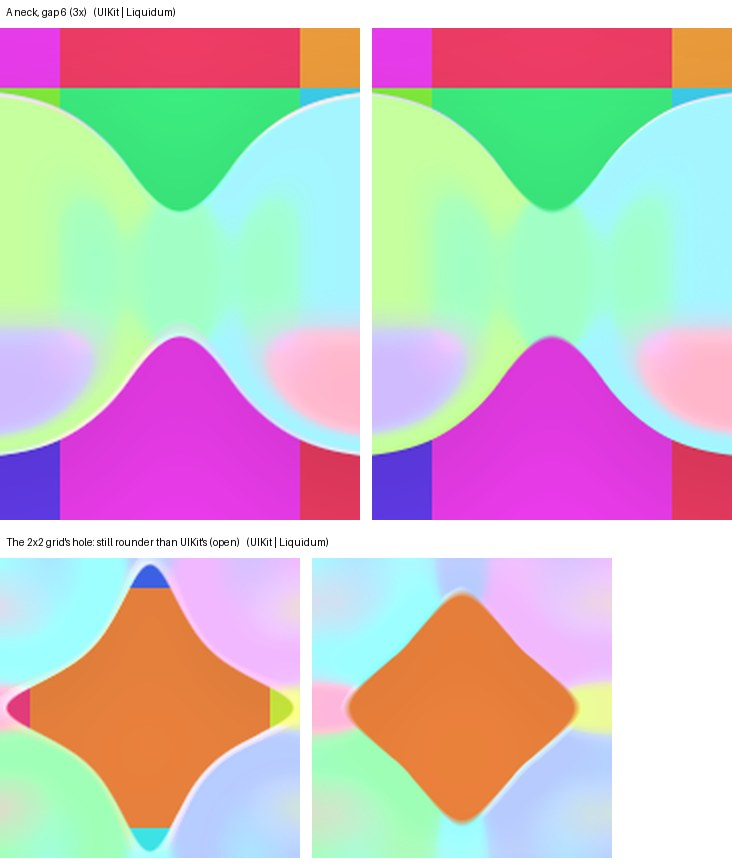
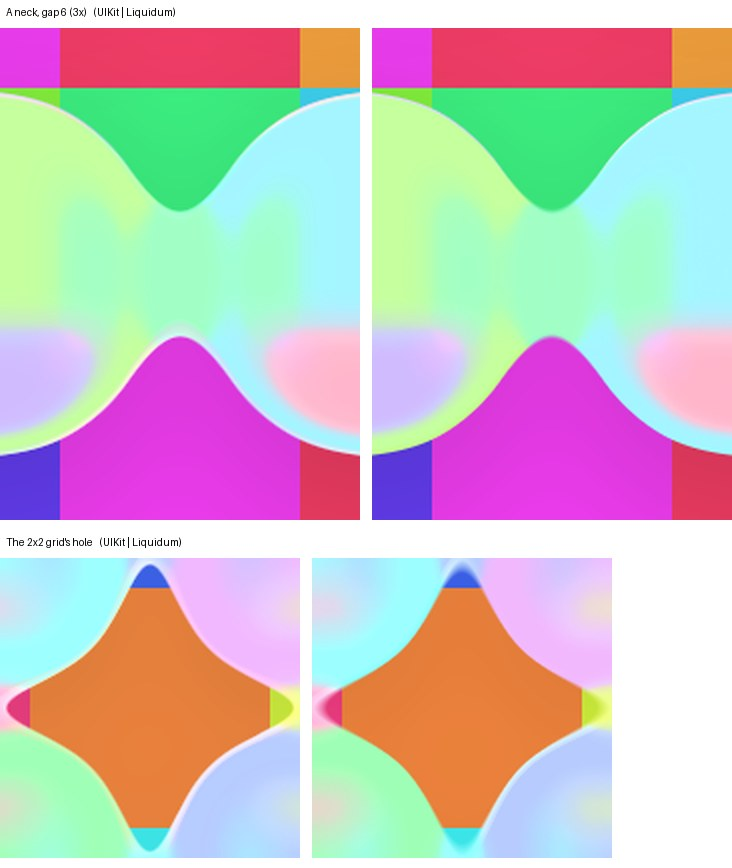
Refactor code structure for improved readability and maintainability

diff --git a/example/lib/native_glass.dart b/example/lib/native_glass.dart
@@ -102,6 +102,23 @@ const Map<String, List<GlassSpec>> glassSets = <String, List<GlassSpec>>{
     GlassSpec(Rect.fromLTWH(70, 500, 300, 120)),
     GlassSpec(Rect.fromLTWH(70, 660, 300, 160)),
   ],
+  // Rounded rectangles up to 64pt and above (UIKit's large glass).
+  'corners': <GlassSpec>[
+    GlassSpec(Rect.fromLTWH(40, 70, 60, 60), radius: 16),
+    GlassSpec(Rect.fromLTWH(140, 70, 60, 60), radius: 8),
+    GlassSpec(Rect.fromLTWH(240, 70, 44, 44), radius: 12),
+    GlassSpec(Rect.fromLTWH(330, 70, 64, 64), radius: 24),
+    GlassSpec(Rect.fromLTWH(40, 180, 160, 60), radius: 16),
+    GlassSpec(Rect.fromLTWH(240, 180, 160, 50), radius: 10),
+    GlassSpec(Rect.fromLTWH(40, 290, 100, 100), radius: 16),
+    GlassSpec(Rect.fromLTWH(180, 290, 100, 100), radius: 30),
+    GlassSpec(Rect.fromLTWH(40, 440, 360, 120), radius: 24),
+    GlassSpec(Rect.fromLTWH(40, 610, 80, 80), radius: 20),
+    GlassSpec(Rect.fromLTWH(160, 610, 240, 80), radius: 12),
+    GlassSpec(Rect.fromLTWH(40, 730, 60, 60), radius: 16, clear: true),
+    GlassSpec(Rect.fromLTWH(140, 730, 160, 60), radius: 16, clear: true),
+    GlassSpec(Rect.fromLTWH(320, 730, 80, 80), radius: 20, clear: true),
+  ],
   'bar': <GlassSpec>[GlassSpec(Rect.fromLTWH(21, 873, 398, 62))],
   // Glass groups, spacing 20 (as the catalog's groups page).
   'groups': <GlassSpec>[

diff --git a/lib/src/glass_render.dart b/lib/src/glass_render.dart
@@ -278,9 +278,16 @@ class _GlassPasses {
 
     void set(_GlassUniforms u, double pass) {
       u
-        // UIKit's glass filter refracts along its shape's distance gradient
-        // (no ovalization, unlike the lens's warp).
-        ..pass.set(pass, k, shapes.length.toDouble(), 0)
+        // UIKit's SDF elements' gradient ovalization: 0.5 for regular glass
+        // over 64pt, and for all of a group whose largest glass is (none at
+        // 64pt and below, nor for clear glass). The glass refracts along
+        // that gradient.
+        ..pass.set(
+          pass,
+          k,
+          shapes.length.toDouble(),
+          !isClear && large > 64 ? 0.5 : 0,
+        )
         ..optics.set(
           optics.inner,
           optics.innerHeight,

diff --git a/CHANGELOG.md b/CHANGELOG.md
@@ -3,8 +3,10 @@
 * `Glass` is now UIKit's glass (`UIGlassEffect`), measured at 30 to 400pt:
   the tab bar's material at any size, with the inputs UIKit gives each size
   (refraction, frost, shadow, and for large glass its fixed appearance and
-  bleed), Apple's continuous corners, a `clear` style, `tint` and
-  `brightness`. Small glass turns light or dark with what is behind it.
+  bleed), Apple's continuous corners, UIKit's refraction around them (it
+  turns well before a side meets its corner, and in large regular glass
+  leans toward the center), a `clear` style, `tint` and `brightness`.
+  Small glass turns light or dark with what is behind it.
 * Breaking: `GlassMaterial` and `Glass.material` are gone; use
   `Glass(style: GlassStyle.regular or GlassStyle.clear)`.
 * New: `GlassGroup`, UIKit's glass container (`UIGlassContainerEffect`).
